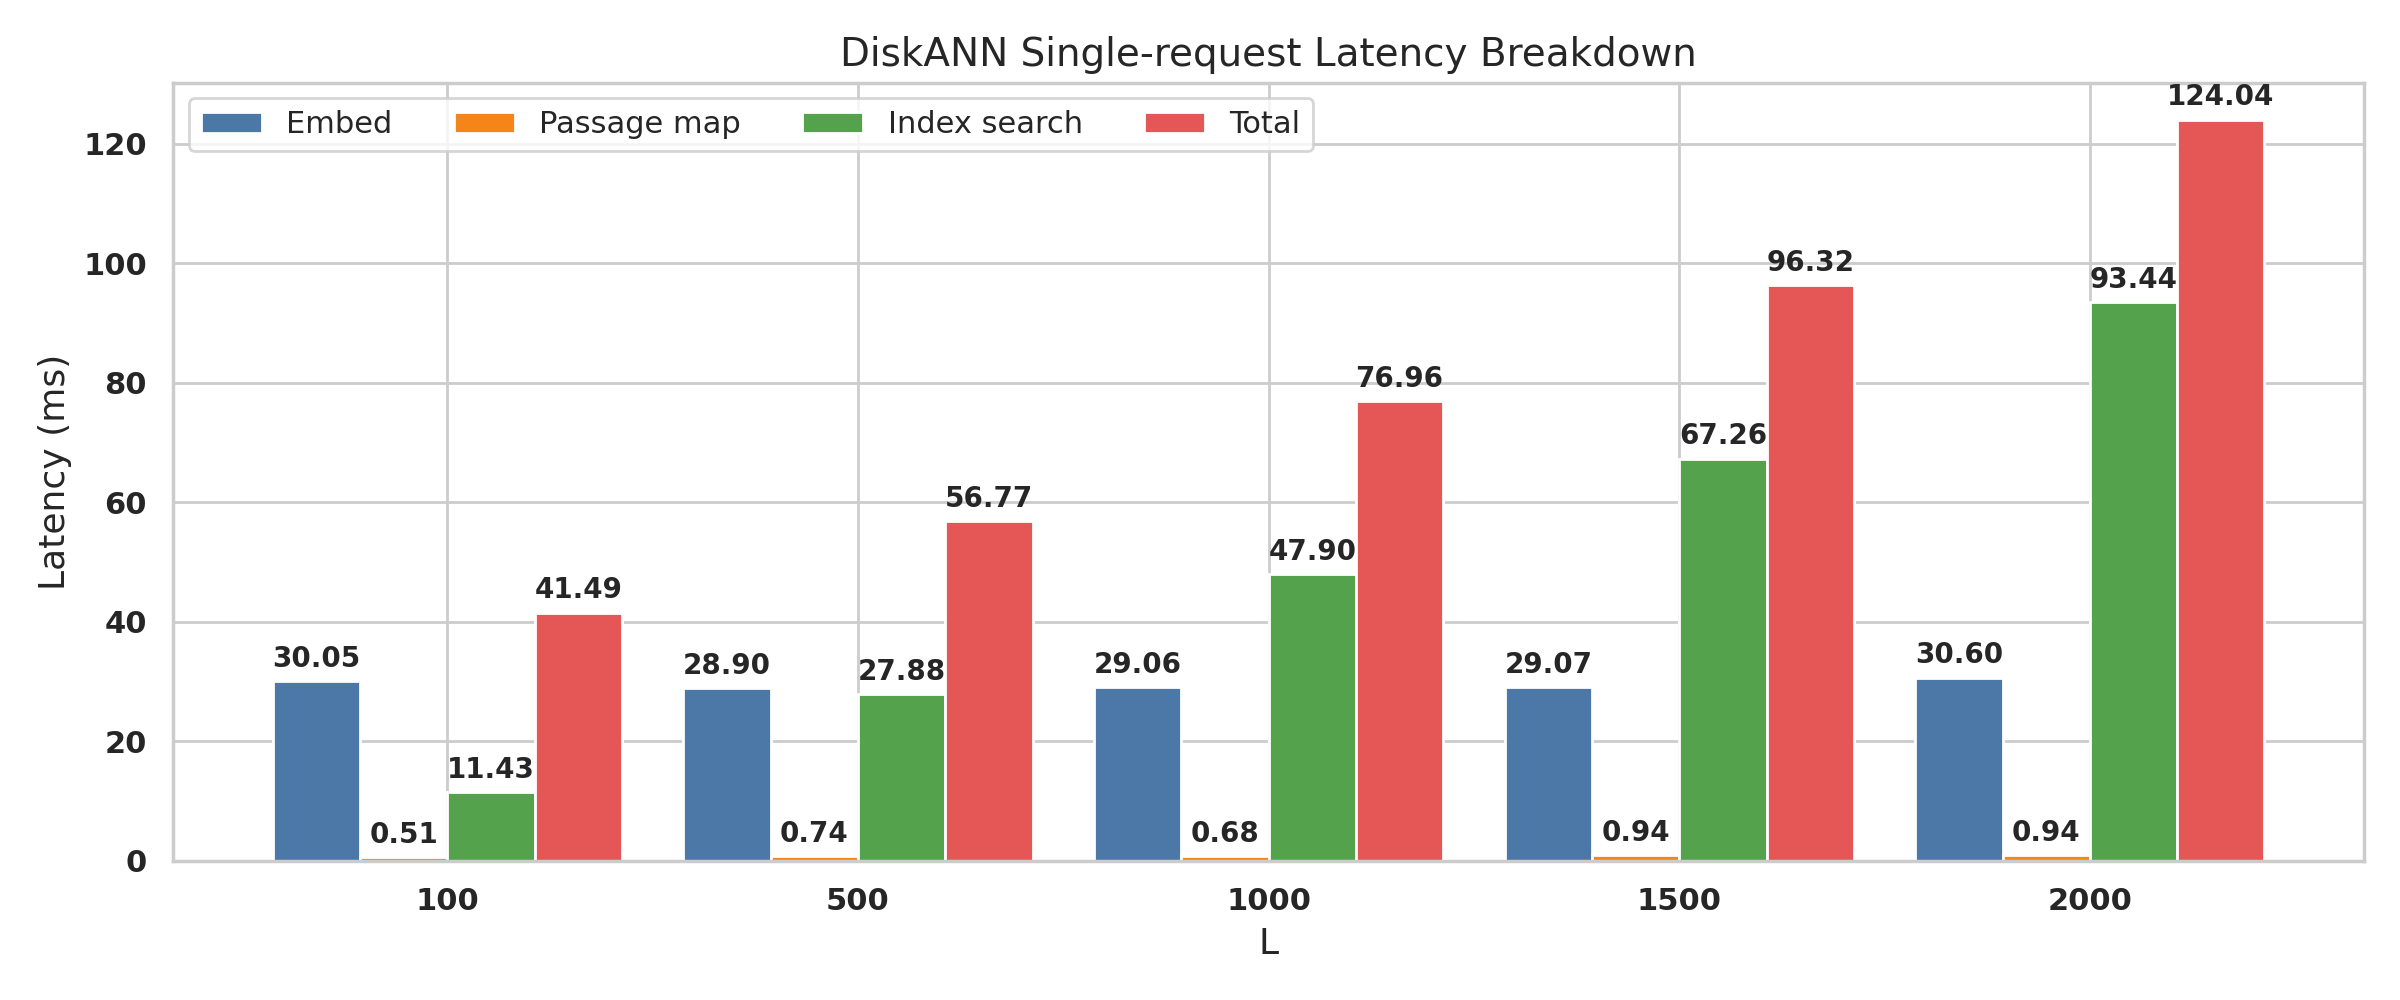
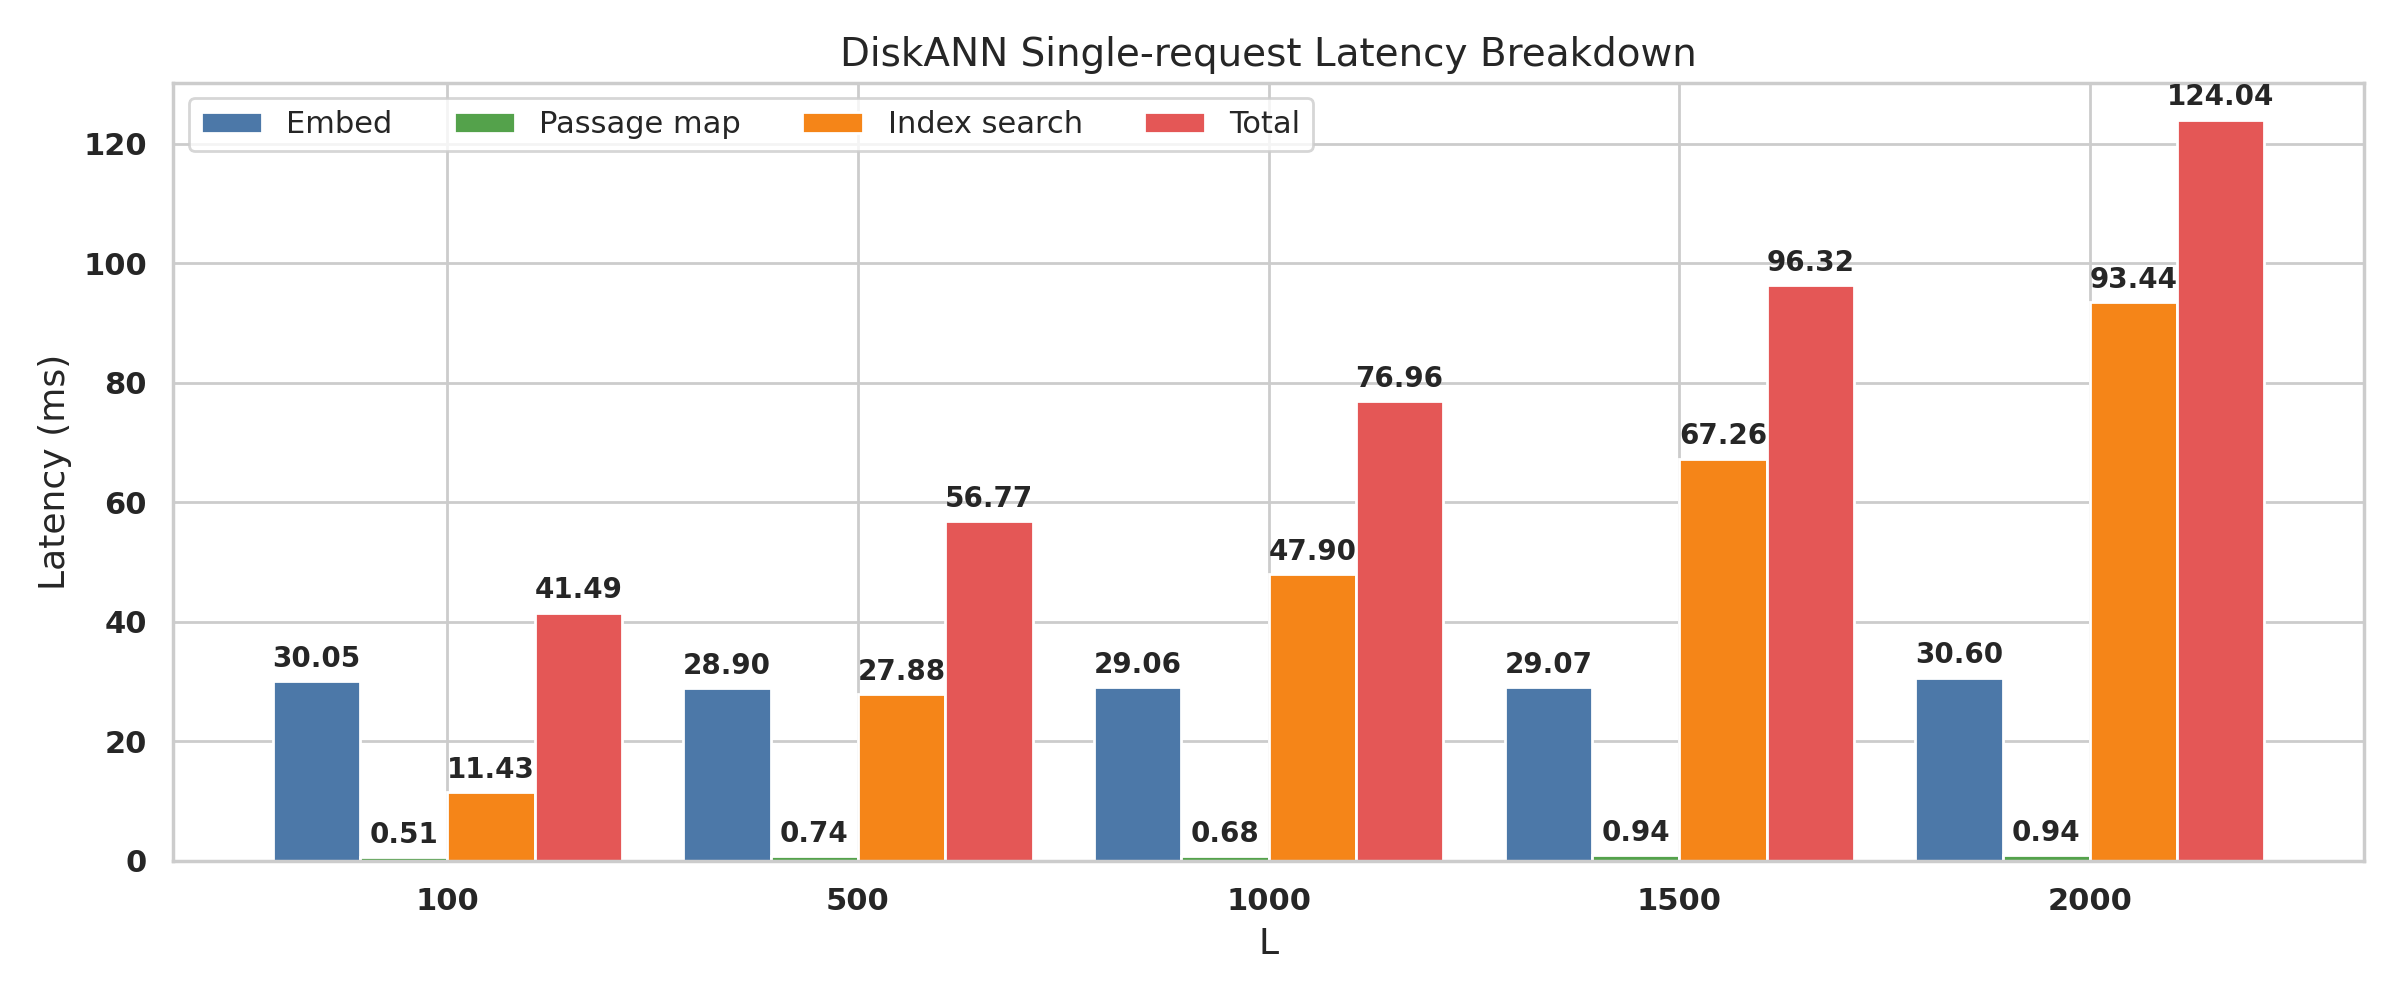
added throughput figures

diff --git a/scripts/plot_search_engine_throughput_compare.py b/scripts/plot_search_engine_throughput_compare.py
@@ -1,0 +1,104 @@
+#!/usr/bin/env python3
+"""Generate throughput comparison plots for Google API vs DS Serve (single and batched)."""
+
+from __future__ import annotations
+
+import os
+from typing import Dict, List, Tuple
+
+import matplotlib
+
+matplotlib.use("Agg")
+import matplotlib.pyplot as plt  # noqa: E402
+
+try:  # noqa: SIM105
+    import seaborn as sns  # type: ignore
+except Exception:  # pragma: no cover - seaborn is optional
+    sns = None
+
+
+REPO_ROOT = os.path.abspath(os.path.join(os.path.dirname(__file__), ".."))
+PLOTS_DIR = os.path.join(REPO_ROOT, "docs", "plots")
+
+
+def annotate(ax: plt.Axes) -> None:
+    for patch in ax.patches:
+        height = patch.get_height()
+        if height <= 0:
+            continue
+        ax.annotate(
+            f"{height:.2f}",
+            (patch.get_x() + patch.get_width() / 2.0, height),
+            ha="center",
+            va="bottom",
+            fontsize=11,
+            fontweight="bold",
+            xytext=(0, 3),
+            textcoords="offset points",
+        )
+
+
+def make_plot(
+    title: str,
+    data: List[Tuple[str, float]],
+    output_path: str,
+    bar_colors: Dict[str, str],
+) -> None:
+    if sns:
+        sns.set_theme(style="whitegrid")
+
+    labels = [label for label, _ in data]
+    values = [val for _, val in data]
+    colors = [bar_colors.get(label, "#4C78A8") for label in labels]
+
+    plt.figure(figsize=(5.2, 4.2))
+    ax = plt.gca()
+    ax.bar(labels, values, color=colors)
+    ax.set_xlabel("System", fontsize=13)
+    ax.set_ylabel("QPS", fontsize=13)
+    ax.set_title(title, fontsize=14)
+
+    for tick in list(ax.get_xticklabels()) + list(ax.get_yticklabels()):
+        tick.set_fontsize(11)
+
+    annotate(ax)
+    plt.tight_layout()
+    os.makedirs(os.path.dirname(output_path), exist_ok=True)
+    plt.savefig(output_path, dpi=200)
+    plt.close()
+    print(f"Wrote {output_path}")
+
+
+def main() -> None:
+    colors = {
+        "Google API": "#E45756",  # red
+        "DS Serve": "#4C78A8",    # blue
+    }
+
+    single = [
+        ("Google API", 6.6055),
+        ("DS Serve", 12.4713),
+    ]
+    batched = [
+        ("Google API", 8.2488),
+        ("DS Serve", 238.10),
+    ]
+
+    make_plot(
+        title="Throughput (single)",
+        data=single,
+        output_path=os.path.join(PLOTS_DIR, "search_engine_qps_single.png"),
+        bar_colors=colors,
+    )
+
+    make_plot(
+        title="Throughput (batched)",
+        data=batched,
+        output_path=os.path.join(PLOTS_DIR, "search_engine_qps_batched.png"),
+        bar_colors=colors,
+    )
+
+
+if __name__ == "__main__":
+    main()
+

diff --git a/scripts/plot_diskann_single_request_latency.py b/scripts/plot_diskann_single_request_latency.py
@@ -66,7 +66,8 @@ def main() -> None:
 
     plt.figure(figsize=(12, 5))
     ax = plt.gca()
-    palette = ["#4C78A8", "#F58518", "#54A24B", "#E45756"]
+    # Match batched breakdown colors: Embed (blue), Passage map (green), Index search (orange), Total (red)
+    palette = ["#4C78A8", "#54A24B", "#F58518", "#E45756"]
 
     for idx, (metric_key, display_name) in enumerate(metrics):
         values = [row[metric_key] for row in SINGLE_REQUEST_LATENCY]
